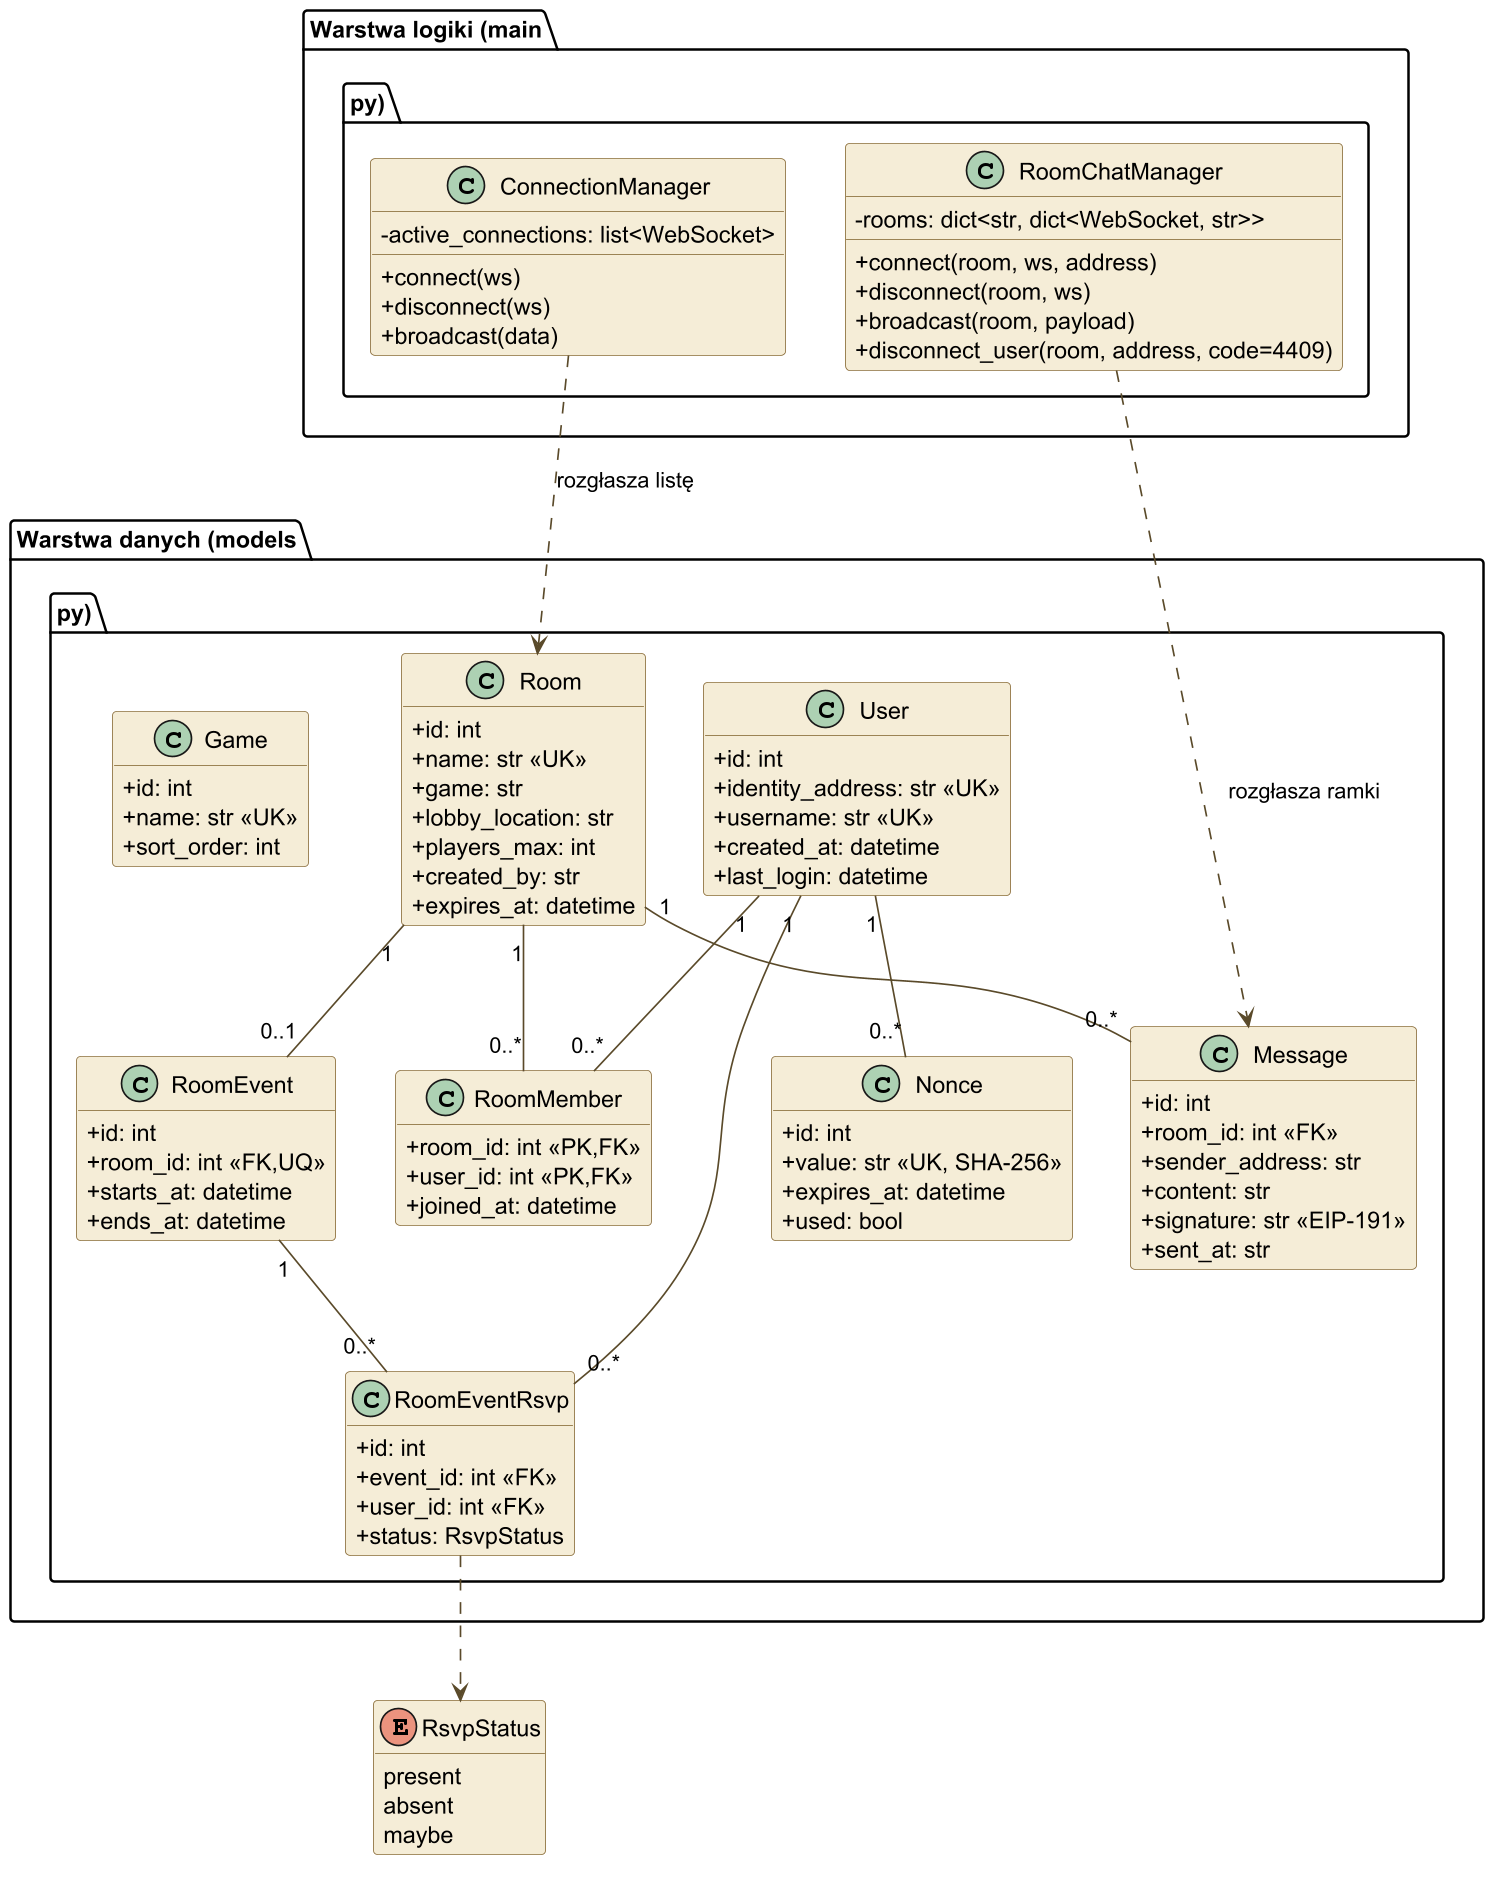
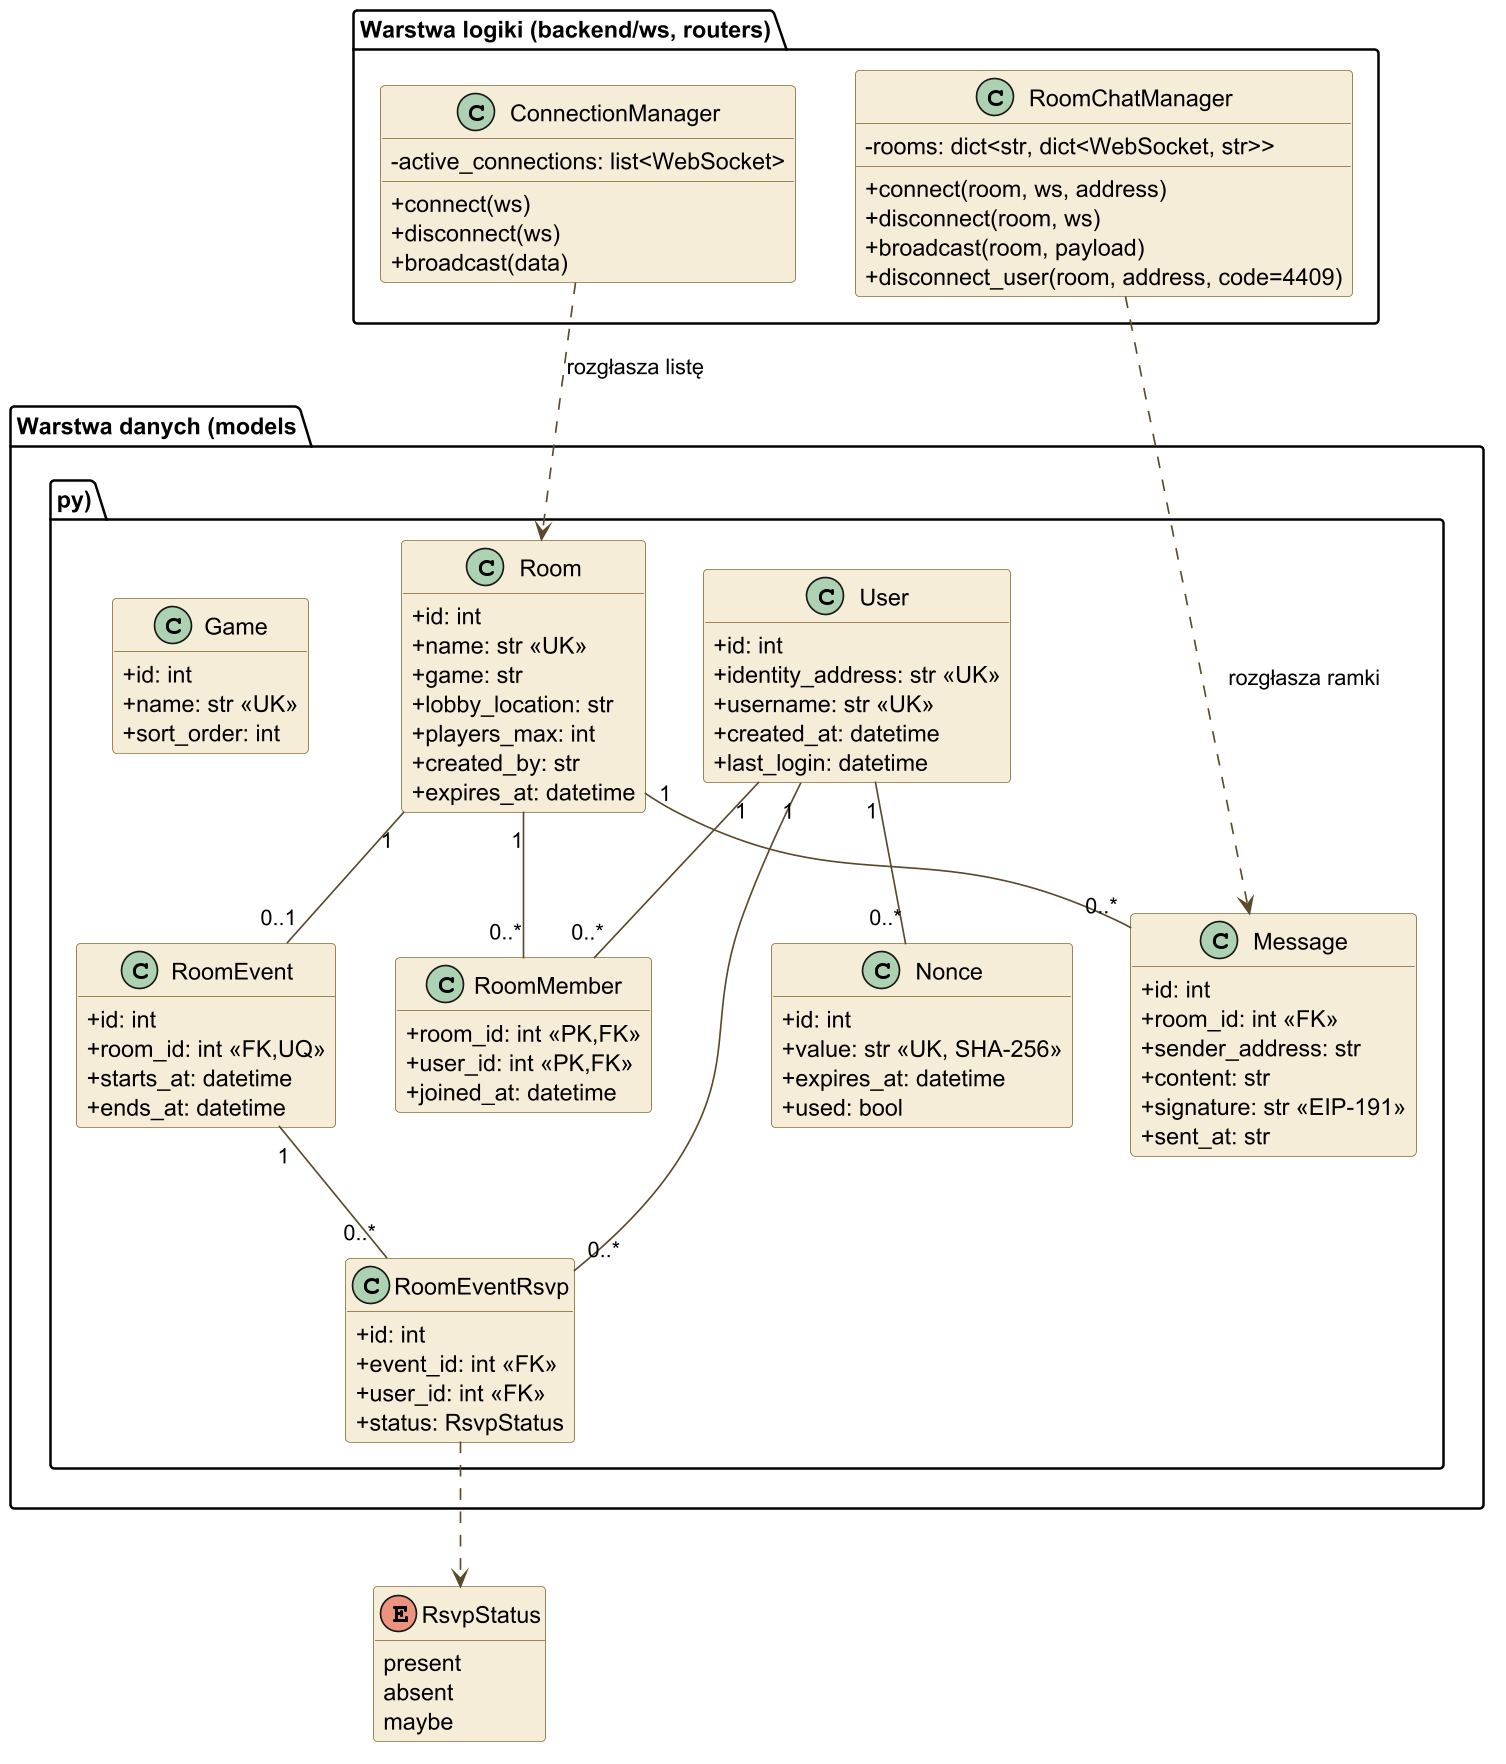
docs: align report file references with modular backend (ws/managers.py, config.py)

diff --git a/prezentacje/raport_koncowy/sekcje/01-analiza.tex b/prezentacje/raport_koncowy/sekcje/01-analiza.tex
@@ -403,7 +403,7 @@ WebSocket. Najważniejsze elementy:
         (co \code{ROOM_CLEANUP_INTERVAL_SECONDS}).
 \end{itemize}
 
-Stan połączeń realtime utrzymują dwie klasy menedżerów (singletony w \code{main.py}):
+Stan połączeń realtime utrzymują dwie klasy menedżerów (singletony w module \code{backend/ws/managers.py}):
 \code{ConnectionManager} (rejestr połączeń kanału listy pokojów) oraz
 \code{RoomChatManager} (rejestr połączeń czatu per pokój, z mapowaniem gniazdo$\rightarrow$adres).
 Diagram klas (rys.~\ref{fig:klasy}) zestawia encje warstwy danych z tymi menedżerami

diff --git a/prezentacje/raport_koncowy/sekcje/02-implementacja.tex b/prezentacje/raport_koncowy/sekcje/02-implementacja.tex
@@ -112,7 +112,7 @@ Statusy RSVP & present / absent / maybe \\
 Gry (seed) & Quake III Arena, Diablo II, StarCraft, Half-Life, Unreal Tournament \\
 \bottomrule
 \end{tabularx}
-\caption{Zweryfikowane stałe i parametry konfiguracyjne (źródło: \texttt{backend/main.py}, \texttt{models.py}).}
+\caption{Zweryfikowane stałe i parametry konfiguracyjne (źródło: \texttt{backend/config.py}, \texttt{models.py}).}
 \label{tab:const}
 \end{table}
 